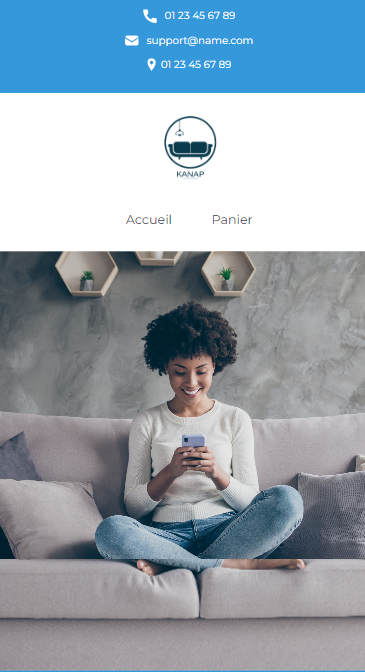
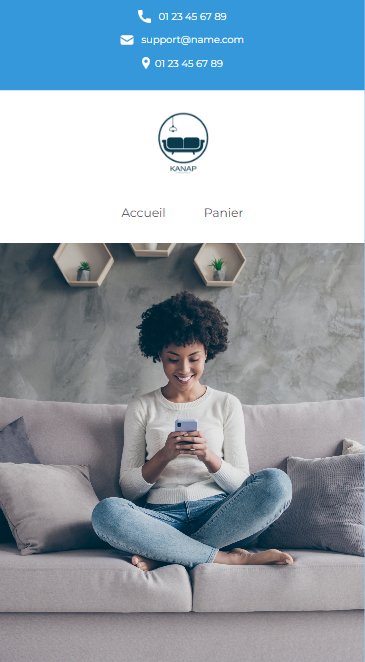
Style de la page Kanap

diff --git a/kanap.html b/kanap.html
@@ -9,71 +9,79 @@
         <link rel="shortcut icon" href="images/favicon.ico" type="image/x-icon">
 
         <link rel="stylesheet" href="style.css">
-		<script src="https://kit.fontawesome.com/eafcd51cfc.js" crossorigin="anonymous"></script>
+        <link href="https://cdn.jsdelivr.net/npm/remixicon@2.5.0/fonts/remixicon.css" rel="stylesheet">
     </head>
 
-    <body>
-        <header>
-            <a href="index.html">
-                <img src="images/logo.png" alt="logo abstrait représentant la polyvalence">
-            </a>
-        </header>
+    <body class="kanap">
+        <main class="bgc-gradient">
+            <div class="container">
+                <header>
+                    <a href="index.html">
+                        <img src="images/logo.png" alt="logo abstrait représentant la polyvalence">
+                    </a>
+                </header>
+            </div>
 
-        <section id="carousel">
-            <i class="fa-solid fa-circle-chevron-left"></i>
-            <i class="fa-solid fa-circle-chevron-right"></i>
-            <ul class="carousel--mobile">
-                <li class="carousel-mobile__item">
-                    <img src="images/local-site/kanap-mobile1.png" alt="page d'accueil du site Kanap">
-                </li>
-                <li class="carousel-mobile__item">
-                    <img src="images/local-site/kanap-mobile2.png" alt="produits vendus par le site Kanap">
-                </li>
-                <li class="carousel-mobile__item">
-                    <img src="images/local-site/kanap-mobile3.png" alt="page détaillée d'un produit du site Kanap">
-                </li>
-                <li class="carousel-mobile__item">
-                    <img src="images/local-site/kanap-mobile4.png" alt="page panier du site Kanap">
-                </li>
-            </ul>
-            <ul class="carousel--desktop">
-                <li class="carousel-desktop__item">
-                    <img src="images/local-site/kanap-desktop1.png" alt="page d'accueil du site Kanap">
-                </li>
-                <li class="carousel-mobile__item">
-                    <img src="images/local-site/kanap-desktop2.png" alt="produits vendus par le site Kanap">
-                </li>
-                <li class="carousel-mobile__item">
-                    <img src="images/local-site/kanap-desktop3.png" alt="page détaillée d'un produit du site Kanap">
-                </li>
-                <li class="carousel-mobile__item">
-                    <img src="images/local-site/kanap-desktop4.png" alt="page panier du site Kanap">
-                </li>
-            </ul>
-            <div class="carousel__description">
-                <div class="title">
-                    <h1>Kanap</h1>
-                    <div class="btn btn--circle btn--white">
-                        <a href="https://github.com/Jeanne4L/oc-kanap" target="_blank">
-                            <i class="fa-brands fa-github"></i>
-                        </a>
+            <section id="carousel">
+                <div class="chevron-left">
+                    <i class="ri-arrow-left-s-line"></i>
+                </div>
+                <div class="chevron-right">
+                    <i class="ri-arrow-right-s-line"></i>
+                </div>
+                <ul class="carousel--mobile">
+                    <li class="carousel-mobile__item">
+                        <img src="images/local-site/kanap-mobile1.png" alt="page d'accueil du site Kanap">
+                    </li>
+                    <li class="carousel-mobile__item">
+                        <img src="images/local-site/kanap-mobile2.png" alt="produits vendus par le site Kanap">
+                    </li>
+                    <li class="carousel-mobile__item">
+                        <img src="images/local-site/kanap-mobile3.png" alt="page détaillée d'un produit du site Kanap">
+                    </li>
+                    <li class="carousel-mobile__item">
+                        <img src="images/local-site/kanap-mobile4.png" alt="page panier du site Kanap">
+                    </li>
+                </ul>
+                <ul class="carousel--desktop">
+                    <li class="carousel-desktop__item">
+                        <img src="images/local-site/kanap-desktop1.png" alt="page d'accueil du site Kanap">
+                    </li>
+                    <li class="carousel-mobile__item">
+                        <img src="images/local-site/kanap-desktop2.png" alt="produits vendus par le site Kanap">
+                    </li>
+                    <li class="carousel-mobile__item">
+                        <img src="images/local-site/kanap-desktop3.png" alt="page détaillée d'un produit du site Kanap">
+                    </li>
+                    <li class="carousel-mobile__item">
+                        <img src="images/local-site/kanap-desktop4.png" alt="page panier du site Kanap">
+                    </li>
+                </ul>
+                <div class="carousel__description">
+                    <div class="title">
+                        <h1>Kanap</h1>
+                        <div class="btn btn--circle btn--white">
+                            <a href="https://github.com/Jeanne4L/oc-kanap" target="_blank">
+                                <i class="ri-github-fill"></i>
+                            </a>
+                        </div>
+                    </div>
+                    <p>
+                        Affichage dynamique des données grâce aux requêtes API
+                    </p>
+                    <div class="pagination">
+                        <i class="ri-checkbox-blank-circle-fill white"></i><i class="ri-checkbox-blank-circle-fill"></i><i class="ri-checkbox-blank-circle-fill"></i><i class="ri-checkbox-blank-circle-fill"></i>
                     </div>
                 </div>
-                <p>
-                    Affichage dynamique des données grâce aux requêtes API
-                </p>
-                <div class="pagination">
-                    <i class="fa-solid fa-circle"></i><i class="fa-solid fa-circle"></i><i class="fa-solid fa-circle"></i><i class="fa-solid fa-circle"></i>
-                </div>
-            </div>
-        </section>
+            </section>
+        </main>
 
-        <footer>
+        <footer class="center">
             <a href="https://github.com/Jeanne4L" target="_blank">
-                <i class="fa-brands fa-github"></i>
+                <i class="ri-github-fill"></i>
             </a>
             <a href="mailto:sandra.petereau@outlook.fr">
-                <i class="fa-solid fa-envelope"></i>
+                <i class="ri-mail-fill"></i>
             </a>
         </footer>
     </body>

diff --git a/style.css b/style.css
@@ -231,7 +231,7 @@ footer {
     padding: 20px 0 40px 0;
 }
 footer i {
-    font-size: 1.3rem;
+    font-size: 1.7rem;
     color: rgba(245,245,245, 0.8);
     padding: 5px;
 }
@@ -349,4 +349,97 @@ footer i {
 
 .ri-arrow-up-s-fill, .column {
     display: none;
+}
+
+/*                                                          */
+/*                        KANAP PAGE                        */
+/*                                                          */
+.carousel--desktop {
+    display: none;
+}
+#carousel {
+    padding: 0;
+    overflow: hidden;
+    position: relative;
+}
+.carousel--mobile {
+    width: 400%;
+    display: flex;
+}
+.carousel--mobile img {
+    width: 100%;
+}
+#carousel ul {
+    margin: 0;
+}
+#carousel li {
+    display: inline-flex;
+}
+
+.chevron-right, .chevron-left {
+    border: solid 3px #006369;
+    border-radius: 30px;
+    width: 35px;
+    height: 35px;
+    position: absolute;
+    top: 40%;
+    display: flex;
+    justify-content: center;
+    align-items: center;
+}
+.ri-arrow-left-s-line, .ri-arrow-right-s-line {
+    font-size: 1.8rem;
+}
+#carousel .chevron-left  {
+    left: 5%;
+}
+#carousel .chevron-right {
+    right: 5%;
+}
+
+
+.carousel__description {
+    position: absolute;
+    bottom: 0;
+    background-color: rgba(14, 63, 64, .45);
+    text-align: center;
+    padding: 8px;
+}
+.carousel__description .title {
+    display: flex;
+    align-items: center;
+    justify-content: center;
+}
+.carousel__description h1 {
+    margin: 0;
+}
+.carousel__description h1, .carousel__description p, .btn .ri-github-fill {
+    color: white;
+}
+.carousel__description p {
+    font-size: 0.9rem;
+    margin: 5px auto 30px auto;
+}
+.carousel__description .btn {
+    width: 35px;
+    height: 35px;
+    margin: 0 0 0 5px;
+    border-width: 2px;
+}
+.carousel__description .btn a {
+    display: inline-flex;
+}
+.btn .ri-github-fill {
+    font-size: 1.4rem;
+}
+
+.ri-checkbox-blank-circle-fill {
+    font-size: 0.8rem;
+}
+.white {
+    color: white;
+}
+
+.kanap footer i {
+    color:#006369;
 }
